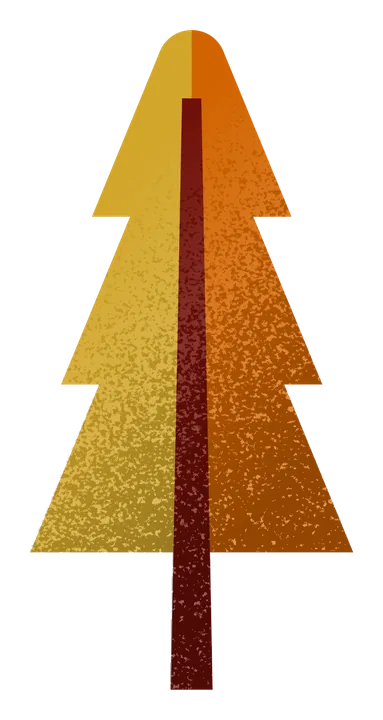
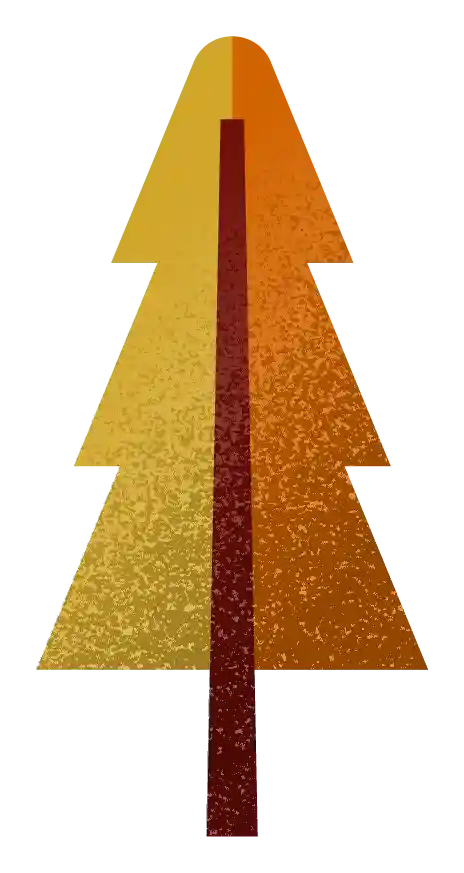
chore: 草木の素材（WorldSpawnedObjects）を支給の透明 webp に差し替えた
高さ 873px・合計約 175KB。npm run bg:manifest で一覧を作り直した。

diff --git a/public/js/mountainAssets.generated.js b/public/js/mountainAssets.generated.js
@@ -40,12 +40,12 @@ export const BG_ASSETS = {
       {"n":"9","c":"b","s":"l","w":900,"h":782,"f":"MorningMeadow-9-b-l.webp","v":"c32ddd48"},
     ],
     WorldSpawnedObjects: [
-      {"n":"1","w":383,"h":720,"f":"MorningMeadow-1.webp","v":"7a47892f"},
-      {"n":"2","w":383,"h":720,"f":"MorningMeadow-2.webp","v":"1c433e0a"},
-      {"n":"3","w":384,"h":720,"f":"MorningMeadow-3.webp","v":"15f45de0"},
-      {"n":"4","w":395,"h":720,"f":"MorningMeadow-4.webp","v":"bbcdc54d"},
-      {"n":"5","w":395,"h":720,"f":"MorningMeadow-5.webp","v":"a7c2a7de"},
-      {"n":"6","w":395,"h":720,"f":"MorningMeadow-6.webp","v":"33ee2b68"},
+      {"n":"1","w":464,"h":873,"f":"MorningMeadow-1.webp","v":"4bcca923"},
+      {"n":"2","w":464,"h":873,"f":"MorningMeadow-2.webp","v":"2296d76d"},
+      {"n":"3","w":465,"h":873,"f":"MorningMeadow-3.webp","v":"d83c43ef"},
+      {"n":"4","w":479,"h":873,"f":"MorningMeadow-4.webp","v":"f17d1344"},
+      {"n":"5","w":479,"h":873,"f":"MorningMeadow-5.webp","v":"07a7830e"},
+      {"n":"6","w":479,"h":873,"f":"MorningMeadow-6.webp","v":"8d23b913"},
     ],
     phenomenon: [],
   },
@@ -103,11 +103,11 @@ export const BG_ASSETS = {
       {"n":"9","c":"c","s":"r","w":900,"h":782,"f":"WindyMeadow-9-c-r.webp","v":"7fa5eb4d"},
     ],
     WorldSpawnedObjects: [
-      {"n":"1","w":818,"h":720,"f":"WindyMeadow-1.webp","v":"27560291"},
-      {"n":"2","w":585,"h":720,"f":"WindyMeadow-2.webp","v":"c3f370ab"},
-      {"n":"3","w":371,"h":720,"f":"WindyMeadow-3.webp","v":"3c44cf12"},
-      {"n":"4","w":371,"h":720,"f":"WindyMeadow-4.webp","v":"cd3ecadb"},
-      {"n":"5","w":372,"h":720,"f":"WindyMeadow-5.webp","v":"d5035e6b"},
+      {"n":"1","w":993,"h":873,"f":"WindyMeadow-1.webp","v":"7bec68af"},
+      {"n":"2","w":710,"h":873,"f":"WindyMeadow-2.webp","v":"fa54baf4"},
+      {"n":"3","w":450,"h":871,"f":"WindyMeadow-3.webp","v":"16686a26"},
+      {"n":"4","w":450,"h":871,"f":"WindyMeadow-4.webp","v":"630a7fa5"},
+      {"n":"5","w":451,"h":871,"f":"WindyMeadow-5.webp","v":"fa27d6d0"},
     ],
     phenomenon: [],
   },

diff --git a/public/index.html b/public/index.html
@@ -89,6 +89,6 @@
        ★更新するときは必ずパスのバージョンを変えること。同じパスのまま中身を差し替えると、
        古いものが配信され続ける（images/bg と同じ約束）。 -->
   <script defer src="/js/vendor/lottie-web/5.13.0/lottie_light.min.js"></script>
-  <script type="module" src="/js/v1620833d/main.js"></script>
+  <script type="module" src="/js/v3949e6e7/main.js"></script>
 </body>
 </html>
